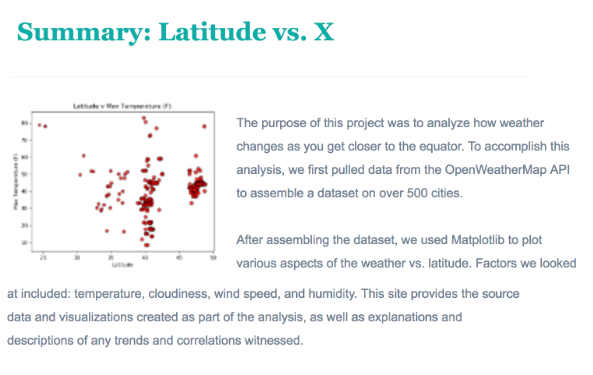
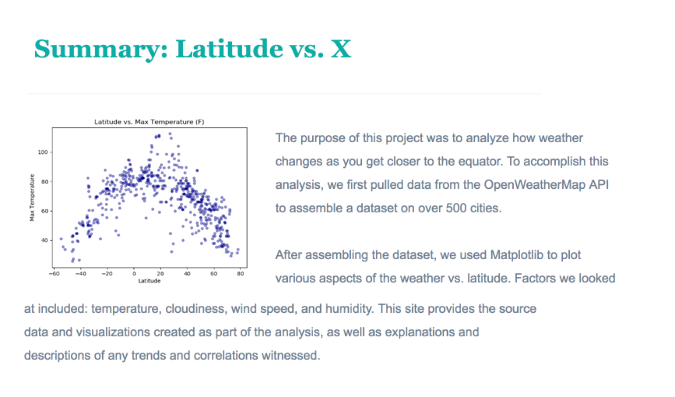
Latest checkins

diff --git a/index.html b/index.html
@@ -25,9 +25,16 @@
       h3 {
           color:  teal;
       }
+      h2 {
+          color:  white;
+          background-color: teal
+      }
   </style>
   <!-- Create the Overall Grid -->
   <div class="container">
+      <div class="d-flex flex-row">
+         <h2>Latitude</h2>
+      </div>
       <div class="d-flex flex-row-reverse">
           <div class="p-2">
               <a target="_self" href="data.html">Data</a>
@@ -40,10 +47,10 @@
                 Plots
               </button>
               <div class="dropdown-menu">
-                <a class="dropdown-item" href="LatTemp.png">Max Temperature</a>
-                <a class="dropdown-item" href="LatHumidity.png">Humidity</a>
-                <a class="dropdown-item" href="LatCloudiness.png">Cloudiness</a>
-                <a class="dropdown-item" href="LatWindSpeed.png">Wind Speed</a>
+                <a class="dropdown-item" href="LatTempPlotDetails.png">Max Temperature</a>
+                <a class="dropdown-item" href="LatHumidityPlotDetails.png">Humidity</a>
+                <a class="dropdown-item" href="LatCloudinessPlotDetails.png">Cloudiness</a>
+                <a class="dropdown-item" href="LatWindspeedPlotDetails.png">Wind Speed</a>
               </div>
           </div>
       </div>
@@ -52,7 +59,7 @@
     <div class="row">
       <!-- First of two columns -->
       <div class="col">
-        <iframe src="SummaryLatitude.png" width="650" height="500" name="iframe_w"></iframe>
+        <iframe src="SummaryLatitude.png" width="750" height="725" name="iframe_w"></iframe>
       </div>
       <!-- Second of two columns -->
       <div class="col">
@@ -61,28 +68,28 @@
           <div class="row">
               <div class="col-sm-6">
                   <div class="thumbnail">
-                      <a target="iframe_w" href="LatCloudiness.png">
-                      <img src="LatCloudiness.png" alt="LatCloudiness" class="img-thumbnail">
+                      <a target="iframe_w" href="LatCloudinessPlotDetails.png">
+                      <img src="LatCloudinessPlot.png" alt="LatCloudiness" class="img-thumbnail">
                   </div>          
               </div>
               <div class="col-sm-6">
                   <div class="thumbnail">
-                      <a target="iframe_w" href="LatHumidity.png">
-                      <img src="LatHumidity.png" alt="LatHumidity" class="img-thumbnail">
+                      <a target="iframe_w" href="LatHumidityPlotDetails.png">
+                      <img src="LatHumidPlot.png" alt="LatHumidity" class="img-thumbnail">
                   </div>          
               </div>
           </div>
           <div class="row">
               <div class="col-sm-6">
                   <div class="thumbnail">
-                      <a target="iframe_w" href="LatTemp.png">
-                      <img src="LatTemp.png" alt="LatTemp" class="img-thumbnail">
+                      <a target="iframe_w" href="LatTempPlotDetails.png">
+                      <img src="LatTempPlot.png" alt="LatTemp" class="img-thumbnail">
                   </div>          
              </div>
               <div class="col-sm-6">
                   <div class="thumbnail">
-                      <a target="iframe_w" href="LatWindSpeed.png">
-                      <img src="LatWindSpeed.png" alt="LatWindSpeed" class="img-thumbnail">
+                      <a target="iframe_w" href="LatWindspeedPlotDetails.png">
+                      <img src="LatWindSpeedPlot.png" alt="LatWindSpeed" class="img-thumbnail">
                   </div>          
               </div>
           </div>

diff --git a/comparisons.html b/comparisons.html
@@ -25,9 +25,16 @@
       h3 {
           color:  teal;
       }
+      h2 {
+          color:  white;
+          background-color: teal
+      }
   </style>
   <!-- Create the Overall Grid -->
   <div class="container">
+      <div class="d-flex flex-row">
+            <h2>Latitude</h2>
+      </div>       
       <div class="d-flex flex-row-reverse">
           <div class="p-2">
               <a target="_self" href="data.html">Data</a>
@@ -38,10 +45,10 @@
                 Plots
               </button>
               <div class="dropdown-menu">
-                <a class="dropdown-item" href="LatTemp.png">Max Temperature</a>
-                <a class="dropdown-item" href="LatHumidity.png">Humidity</a>
-                <a class="dropdown-item" href="LatCloudiness.png">Cloudiness</a>
-                <a class="dropdown-item" href="LatWindSpeed.png">Wind Speed</a>
+                <a class="dropdown-item" href="LatTempPlotDetails.png">Max Temperature</a>
+                <a class="dropdown-item" href="LatHumidityPlotDetails.png">Humidity</a>
+                <a class="dropdown-item" href="LatCloudinessPlotDetails.png">Cloudiness</a>
+                <a class="dropdown-item" href="LatWindspeedPlotDetails.png">Wind Speed</a>
               </div>
           </div>
       </div>
@@ -55,28 +62,28 @@
           <div class="row">
               <div class="col-sm-6">
                   <div class="thumbnail">
-                      <a target="iframe_w" href="LatCloudiness.png">
-                      <img src="LatCloudiness.png" alt="LatCloudiness" class="img-thumbnail">
+                      <a target="iframe_w" href="LatCloudinessPlotDetails.png">
+                      <img src="LatCloudinessPlot.png" alt="LatCloudiness" class="img-thumbnail">
                   </div>          
               </div>
               <div class="col-sm-6">
                   <div class="thumbnail">
-                      <a target="iframe_w" href="LatHumidity.png">
-                      <img src="LatHumidity.png" alt="LatHumidity" class="img-thumbnail">
+                      <a target="iframe_w" href="LatHumidityPlotDetails.png">
+                      <img src="LatHumidPlot.png" alt="LatHumidity" class="img-thumbnail">
                   </div>          
               </div>
           </div>
           <div class="row">
               <div class="col-sm-6">
                   <div class="thumbnail">
-                      <a target="iframe_w" href="LatTemp.png">
-                      <img src="LatTemp.png" alt="LatTemp" class="img-thumbnail">
+                      <a target="iframe_w" href="LatTempPlotDetails.png">
+                      <img src="LatTempPlot.png" alt="LatTemp" class="img-thumbnail">
                   </div>          
              </div>
               <div class="col-sm-6">
                   <div class="thumbnail">
-                      <a target="iframe_w" href="LatWindSpeed.png">
-                      <img src="LatWindSpeed.png" alt="LatWindSpeed" class="img-thumbnail">
+                      <a target="iframe_w" href="LatWindspeedPlotDetails.png">
+                      <img src="LatWindSpeedPlot.png" alt="LatWindSpeed" class="img-thumbnail">
                   </div>          
               </div>
           </div>

diff --git a/data.html b/data.html
@@ -1,4 +1,59 @@
+<!DOCTYPE html>
+<html lang="en-us">
+
+<head>
+
+  <meta charset="UTF-8">
+    <!-- Bring in our bootstrap stylesheet -->
+    <link rel="stylesheet" href="https://stackpath.bootstrapcdn.com/bootstrap/4.3.1/css/bootstrap.min.css" integrity="sha384-ggOyR0iXCbMQv3Xipma34MD+dH/1fQ784/j6cY/iJTQUOhcWr7x9JvoRxT2MZw1T" crossorigin="anonymous">  <link rel="stylesheet" href="style.css">
+  
+    <script src="https://code.jquery.com/jquery-3.3.1.slim.min.js" integrity="sha384-q8i/X+965DzO0rT7abK41JStQIAqVgRVzpbzo5smXKp4YfRvH+8abtTE1Pi6jizo" crossorigin="anonymous"></script>
+    <script src="https://cdnjs.cloudflare.com/ajax/libs/popper.js/1.14.7/umd/popper.min.js" integrity="sha384-UO2eT0CpHqdSJQ6hJty5KVphtPhzWj9WO1clHTMGa3JDZwrnQq4sF86dIHNDz0W1" crossorigin="anonymous"></script>
+    <script src="https://stackpath.bootstrapcdn.com/bootstrap/4.3.1/js/bootstrap.min.js" integrity="sha384-JjSmVgyd0p3pXB1rRibZUAYoIIy6OrQ6VrjIEaFf/nJGzIxFDsf4x0xIM+B07jRM" crossorigin="anonymous"></script>
+  
+    <link rel="stylesheet" href="bootstrapdemo.css">
+    <link rel="stylesheet" href="bootstrap.css">
+    <link rel="stylesheet" href="navdiscreset.css">
+    <link rel="stylesheet" href="navdisc.css">
+    
+  </head>
+  
+  <body>
+  <style>
+    h1 {
+        color:  teal;
+    }
+    h2 {
+          color:  white;
+          background-color: teal
+    }
+  </style>
+  <div class="container">
+      <div class="d-flex flex-row">
+         <h2>Latitude</h2>
+      </div>
+      <div class="d-flex flex-row-reverse">
+          <div class="p-2">Data</div>
+          <div class="p-2">
+              <a target="_self" href="comparisons.html">Comparison</a>
+          </div>
+          <div class="dropdown">
+              <button type="button" class="btn btn-primary dropdown-toggle" data-toggle="dropdown">
+                Plots
+              </button>
+              <div class="dropdown-menu">
+                <a class="dropdown-item" href="LatTempPlotDetails.png">Max Temperature</a>
+                <a class="dropdown-item" href="LatHumidityPlotDetails.png">Humidity</a>
+                <a class="dropdown-item" href="LatCloudinessPlotDetails.png">Cloudiness</a>
+                <a class="dropdown-item" href="LatWindspeedPlotDetails.png">Wind Speed</a>
+              </div>
+          </div>
+      </div>
+<div>
 <table border="1" class="dataframe">
+  <h1>Data</h1>
+  <hr class="my-4">
+  <p>The following table includes all of the data used for plotting during this project</p>
   <thead>
     <tr style="text-align: right;">
       <th>City_ID</th>
@@ -6580,3 +6635,6 @@
     </tr>
   </tbody>
 </table>
+</div>
+</body>
+</html>
